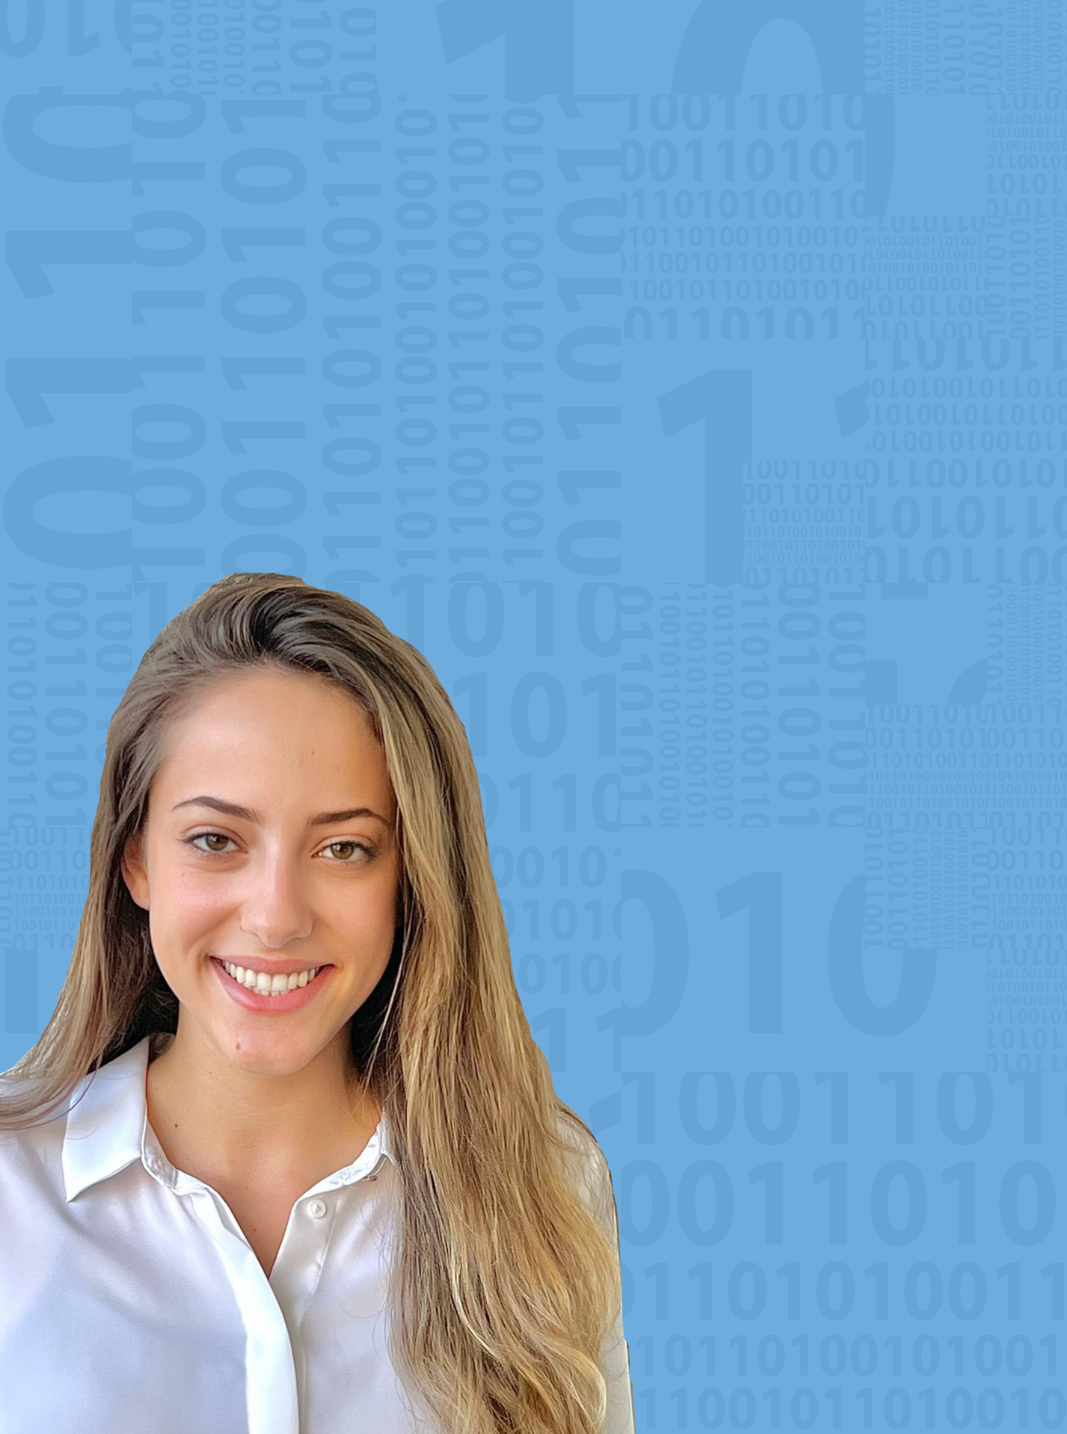
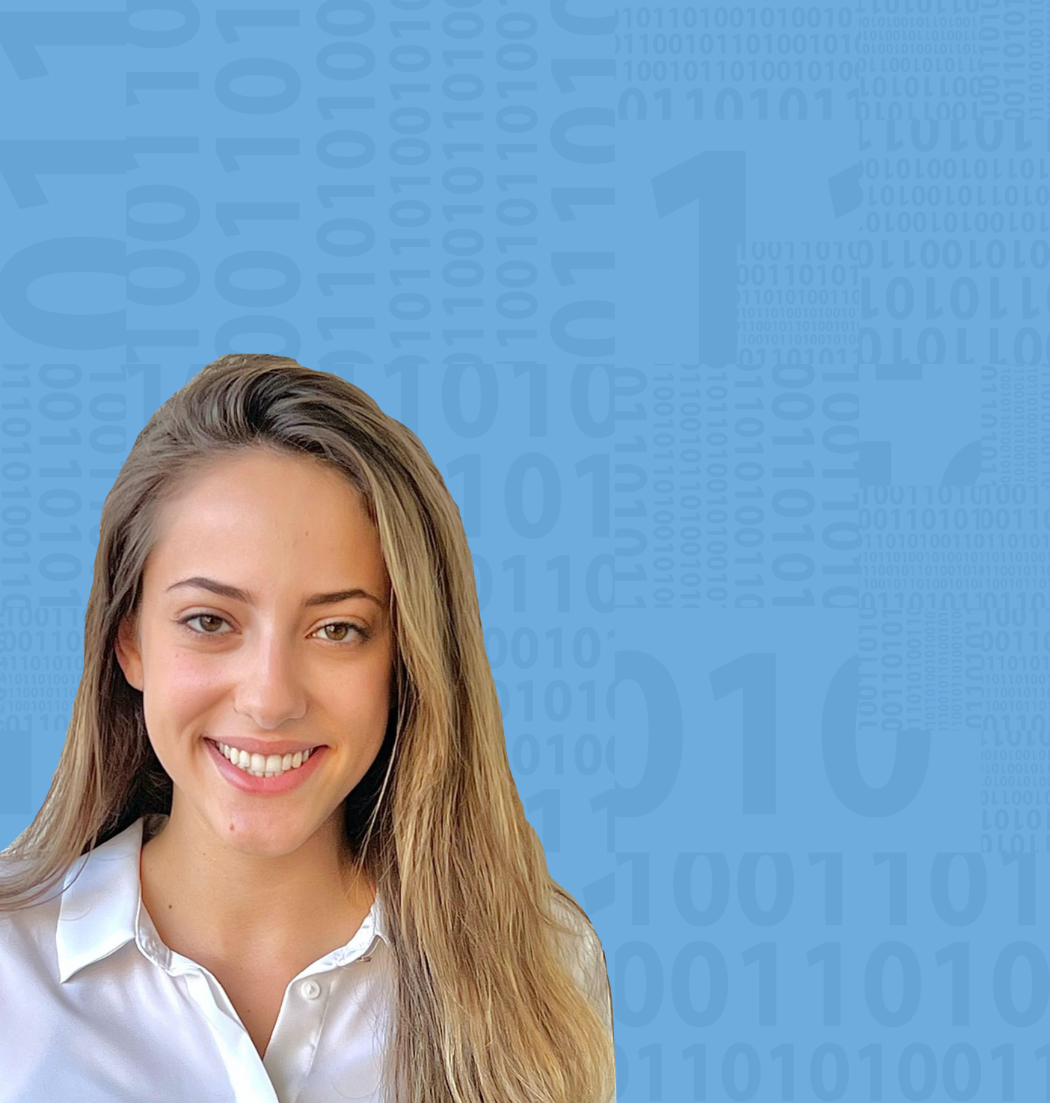
fixed the picture

Changed region(s): [[0.0, 0.3083, 0.6095, 1.0]]

diff --git a/index.html b/index.html
@@ -11,21 +11,48 @@
   <link rel="stylesheet" href="style.css">
 </head>
 <body>
-    <!-- <style>
-        body {
-           background-image: url("YUVAL_SCHWARTZ2.png");
-           background-repeat: no-repeat;
-        }
-     </style> -->
-<div class="relative">
+<div class="w-full h-screen">
+<!-- Navbar -->
+<div class="flex justify-end h-20">
+<button class="p-10">WORK</button>
+</div>
+<!-- <div class="grid grid-cols-3 grid-rows-2">
+<div class="border h-screen">1</div>
+<div class="h-screen">2</div>
+<div class="border h-screen">3</div>
+</div> -->
+
+<!-- box1 -->
+<div class="h-screen w-3/5 border relative">
+ <div class="absolute bottom-0 left-0">
+    <img class="md:h-4/6 md:w-3/6 h-3/6 w-full" src="pro-image-yuval.png" height="100" width="100">
+ </div>  
+</div>
+<div class="h-screen w-2/5 border">
+
+</div>
+</div>
+
+
+
+
+
+
+
+
+
+
+
+
+<!-- <div class="relative">
     <span class="flex justify-end absolute top-10 right-10 max-w-md mx-auto">
     <h1 class="text-black body text-xl hover:border-b hover:border-white cursor-pointer">WORK12</h1>
     </span>
 
 
     <div class="z-50 bg-white h-4/6 w-full absolute top-40 right-60 max-w-md mx-auto rounded">
-        <div class="bg-white">
-
+        <div class="bg-white rounded-lg w-2/3 h-2/3">
+1
         </div>
     <h1 class="title text-4xl text-black text-center justify-center">Yuval Schwartz</h1>
     <h2 class="title text-xl text-black text-center justify-center">Full-Stack Web Developer</h2>
@@ -38,7 +65,7 @@
         <button class="rounded-full py-1 px-6 bg_purple text-white body text-xs body-lite m-1">#React</button>
         <button class="rounded-full py-1 px-6 bg_blue2 text-white body text-xs body-lite m-1">#Node.js</button>
     </div>
-    </div>
+    </div> -->
     <!-- <img class="z-0 h-screen w-full hidden lg:inline-block" src="YUVAL_SCHWARTZ2.png" height="100" width="100"> -->
     <!-- <img class="z-0 h-screen w-full hidden sm:hidden md:inline-block" src="background.png" height="100" width="100"> -->
     <!-- <img class="z-0 h-screen w-full lg:hidden" src="Yuval-mobile.png" height="100" width="100"> -->

diff --git a/style.css b/style.css
@@ -42,15 +42,10 @@ html {
         background-color: #cb6ce6
     }
 
-    @media only screen and (min-width: 640px){
+
         body {
-            background-image: url("YUVAL_SCHWARTZ2.png");
+            background-image: url("background.png");
             background-repeat: no-repeat;
          }
-    }
-    @media only screen and (max-width: 640px){
-        body {
-            background-image: url("Yuval-mobile.png");
-            background-repeat: no-repeat;
-         }
-    }
+    
+
